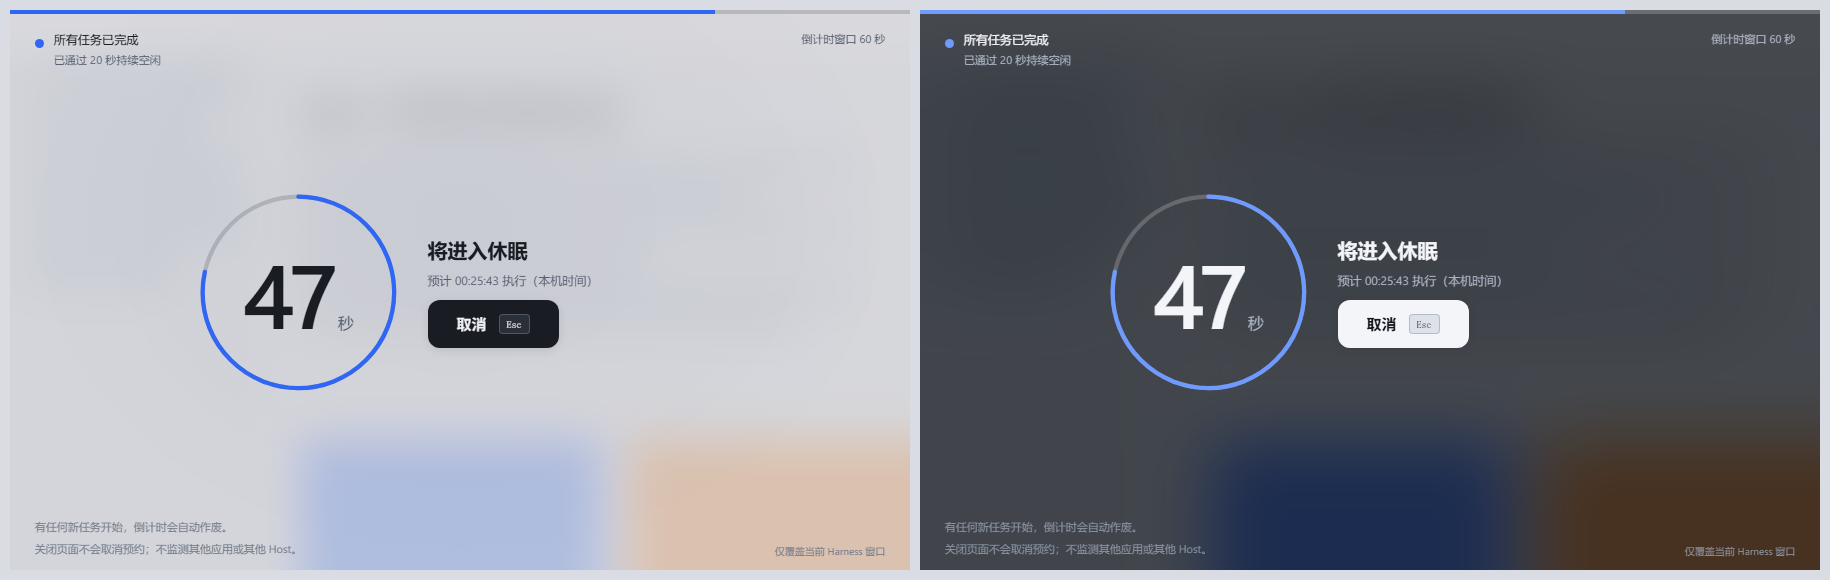
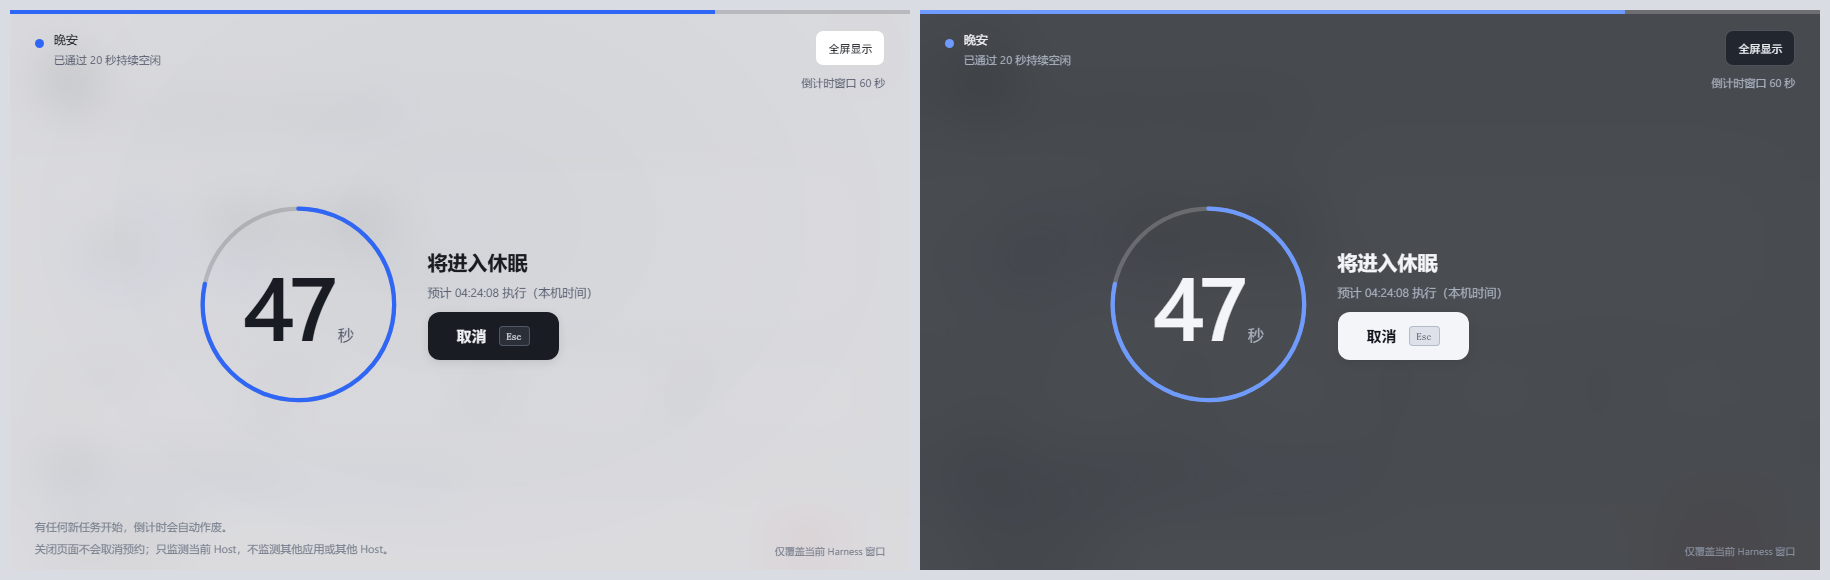
feat(ui): name the plugin Goodnight (#9)

diff --git a/client.js b/client.js
@@ -17,14 +17,14 @@ window.__ModuleLoader__.load({
 
     // ---------------------------------------------------------------- locale
     const zh = {
-      'rail.label': '预约关机',
-      'page.eyebrow': '空闲电源',
-      'page.title': '预约关机',
-      'page.subtitle': '等当前 DSH Host 的任务全部结束，再执行一次电源操作。',
+      'rail.label': '晚安',
+      'page.eyebrow': '自动关机',
+      'page.title': '晚安',
+      'page.subtitle': '等当前 DSH Host 的任务全部结束，替你把机器关机或休眠。',
       'page.refresh': '刷新状态',
       'page.retry': '重试',
-      'page.armShutdown': '预约关机',
-      'page.armHibernate': '预约休眠',
+      'page.armShutdown': '道晚安 · 关机',
+      'page.armHibernate': '道晚安 · 休眠',
       'page.cancel': '取消预约',
       'foot.plan': '预约后：空闲 %s 秒 → 倒计时 %s 秒 → %s',
       'page.saving': '正在提交…',
@@ -41,7 +41,7 @@ window.__ModuleLoader__.load({
       'status.quietSuffix': ' 秒后开始倒计时',
       'status.countingSuffix': ' 秒后执行',
       'status.scheduledAt': '预计 %s 执行',
-      'body.idle': '还没有预约。现在预约，会一直等到所有任务结束。',
+      'body.idle': '还没有预约。说一声晚安，它会等到所有任务结束再动手。',
       'body.waiting': '任务全部停下后开始倒计时。',
       'body.quiet': '任务已经停下，正在确认这段空闲。',
       'body.counting': '倒计时期间出现新任务会自动作废。',
@@ -118,7 +118,7 @@ window.__ModuleLoader__.load({
       'background.glassDesc': '半透明 + 模糊，隐约透出背后的窗口。',
       'background.blur': '高斯模糊',
       'background.blurDesc': '重度模糊 + 暗底，沉浸式深色提示。',
-      'countdown.title': '所有任务已完成',
+      'countdown.title': '晚安',
       'countdown.hibernate': '将进入休眠',
       'countdown.shutdown': '将关机',
       'countdown.suffix': '秒',
@@ -156,14 +156,14 @@ window.__ModuleLoader__.load({
       'error.unsupported-platform': '此插件只支持 Windows。',
     };
     const en = {
-      'rail.label': 'Scheduled power',
-      'page.eyebrow': 'IDLE POWER',
-      'page.title': 'Scheduled power',
-      'page.subtitle': 'Run one power action after every task in this DSH Host has finished.',
+      'rail.label': 'Goodnight',
+      'page.eyebrow': 'AUTO POWER',
+      'page.title': 'Goodnight',
+      'page.subtitle': 'Hibernate or shut down once every task in this DSH Host has finished.',
       'page.refresh': 'Refresh status',
       'page.retry': 'Retry',
-      'page.armShutdown': 'Schedule shutdown',
-      'page.armHibernate': 'Schedule hibernation',
+      'page.armShutdown': 'Goodnight · shut down',
+      'page.armHibernate': 'Goodnight · hibernate',
       'page.cancel': 'Cancel schedule',
       'foot.plan': 'When scheduled: %s s idle → %s s countdown → %s',
       'page.saving': 'Submitting…',
@@ -180,7 +180,7 @@ window.__ModuleLoader__.load({
       'status.quietSuffix': 's until the countdown',
       'status.countingSuffix': 's until it runs',
       'status.scheduledAt': 'Scheduled for %s',
-      'body.idle': 'Nothing is scheduled. Scheduling waits until every task has finished.',
+      'body.idle': 'Nothing is scheduled. Say goodnight and it waits for every task to finish.',
       'body.waiting': 'The countdown starts once every task has stopped.',
       'body.quiet': 'Every task stopped; this idle window is being confirmed.',
       'body.counting': 'Any new task voids this countdown automatically.',
@@ -257,7 +257,7 @@ window.__ModuleLoader__.load({
       'background.glassDesc': 'Translucent with a blur; faintly shows the window behind.',
       'background.blur': 'Gaussian blur',
       'background.blurDesc': 'Heavy blur and a dark scrim; an immersive dark warning.',
-      'countdown.title': 'All tasks finished',
+      'countdown.title': 'Goodnight',
       'countdown.hibernate': 'About to hibernate',
       'countdown.shutdown': 'About to power off',
       'countdown.suffix': 's',

diff --git a/README.md b/README.md
@@ -1,10 +1,10 @@
-# dsh-idle-power
+# Goodnight
 
 **English** · [简体中文](./README.zh-CN.md)
 
-Hibernate or shut down Windows once **every** task in your DeepSeek Harness Host has finished — with a 60-second countdown that fills the whole window and can be cancelled.
+Say goodnight to Windows once **every** task in your DeepSeek Harness Host has finished. A 60-second countdown fills the whole window, then the plugin hibernates or powers off. Cancel it any time before zero.
 
-Long agent runs usually end when you have walked away. This plugin lets you say *"shut the machine down when everything is actually done"*, then keeps its promise safe: it waits for all agents, subagents and background jobs in this Host, shows a full-window countdown, and **voids itself the moment new work appears**.
+Long agent runs usually end when you have walked away. This plugin lets you say *"put the machine to bed when everything is actually done"*, then keeps its promise safe: it waits for all agents, subagents and background jobs in this Host, shows a full-window countdown, and **voids itself the moment new work appears**.
 
 ![The countdown dialog](docs/countdown.png)
 
@@ -12,11 +12,11 @@ The background is switchable from the page: **solid** (default, above), **froste
 
 ![Frosted glass and gaussian blur](docs/backgrounds.png)
 
-The entry sits in the left rail, right under **Plugins** and **Automation tasks**:
+The entry sits in the left rail, right under **Plugins** and **Automation tasks**, and reads **Goodnight**:
 
 ![The scheduling page](docs/page.png)
 
-The page carries the power action, the countdown background, the live task counts, the flow and the notes. The action bar at the bottom names what the button will do (**Schedule shutdown** / **Schedule hibernation**), becomes **Cancel schedule** while a reservation is live, and the rail glyph grows a small dot.
+The page carries the power action, the countdown background, the live task counts, the flow and the notes. The action bar at the bottom names what the button will do (**Goodnight · shut down** / **Goodnight · hibernate**), becomes **Cancel schedule** while a reservation is live, and the rail glyph grows a small dot.
 
 ---
 
@@ -93,7 +93,7 @@ All three change **only the overlay itself**: the `blur` token overrides are sco
 
 ## Install
 
-The plugin is a regular DSH bundle: an npm package that ships a `cordis.patch.yml` and a `dsh.client` entry.
+The plugin is a regular DSH bundle: an npm package that ships a `cordis.patch.yml` and a `dsh.client` entry. The package keeps its original name, `dsh-idle-power`; **Goodnight** is the name it shows in the app.
 
 **Option A — Plugins page (recommended).** Open the Plugins page in Harness and install the bundle `dsh-idle-power` (or the spec `github:tzzs/dsh-idle-power`). It writes the dependency and adds the bundle to your profile for you.
 
@@ -112,13 +112,13 @@ Either way, **a restart or a plugin reload is required** — the Host half regis
 
 ## Use
 
-The entry sits in the left rail, right under **Plugins** and **Automation tasks**:
+The entry sits in the left rail, right under **Plugins** and **Automation tasks**, and reads **Goodnight**:
 
 ![The scheduling page](docs/page.png)
 
 From top to bottom the page shows the current state (not scheduled / waiting · N tasks running / counting down / executing / failed), the live load, the power action, the countdown background, the flow and the notes.
 
-- **Schedule / Cancel schedule** sits in the action bar at the bottom, next to a one-line plan ("20 s idle → 60 s countdown → shutdown") and named after the selected power action, so the commit button never leaves the choices behind.
+- **Goodnight · shut down** or **Goodnight · hibernate**, whichever the selected power action is, sits in the action bar at the bottom next to a one-line plan ("20 s idle → 60 s countdown → shutdown") that names the same action, so the commit button never leaves the choices behind. While a reservation is live the same spot becomes **Cancel schedule**.
 - **State on the rail** — while a reservation is live the power glyph grows a small dot; during the countdown that dot turns red and blinks. The dot survives the rail collapsing to icons.
 - **Countdown background** — three preview tiles that draw the countdown window each preset produces (solid / frosted glass / gaussian blur), applied immediately and persisted on the Host.
 - **A solid surface can be recoloured** — with the solid preset selected, a colour row offers the theme, six presets (four dark, two light) and the system colour picker; the ink switches between black and white by luminance.
@@ -185,10 +185,11 @@ Execution happens in the **Host**, not the browser. Closing the tab does not sto
 npm test
 ```
 
-Two dependency-free harnesses drive the real code with stand-ins, so the suite can run on any machine without powering anything off:
+Three dependency-free harnesses drive the real code with stand-ins, so the suite can run on any machine without powering anything off:
 
 - `test/host.test.mjs` — the state machine against fake agents, fake jobs and a subprocess that records `argv` instead of executing. Covers the busy predicate, a missing registry, quiet behaviour, countdown voiding, both command lines, cancellation, failure reporting, the mode and background routes, background config fallback for unknown values, and the races: mutations refused once execution is committed, a background change that must not disturb a pending arm, a cancel beating a slow arm upload, a stale lookup unable to overwrite a cancellation, and a suspend that overshoots the deadline re-arming instead of firing.
 - `test/client.test.cjs` — renders the real `client.js` components with a minimal React stand-in and asserts on the produced tree: the rail glyph and its pending dot, every page state (loading / offline / registry unavailable / executing / failed), the live load and per-kind task breakdown, mode and background selection with their disabled states, the flow and notes, the full-screen countdown's information hierarchy and progressbar semantics, the emitted `data-background` with fallback for unknown values, the progress ring's geometry and edge cases, multi-screen detection and mirror degradation, cancel-failure feedback, and `prefers-reduced-motion` coverage.
+- `test/locale.test.cjs` — renders the rail entry, the page, the countdown and the waiting screen with the real dictionaries, and fails on a label that resolves to nothing, a placeholder that only one language has, or a retired product name coming back.
 
 The host tests also cover a failed trust check, an unavailable connection service, mode changes during a reservation, and waking up during the executable lookup; the client tests cover keyboard access to every countdown control plus the fullscreen request and the two-step `Esc`.
 

diff --git a/README.zh-CN.md b/README.zh-CN.md
@@ -1,10 +1,10 @@
-# dsh-idle-power
+# 晚安
 
 [English](./README.md) · **简体中文**
 
-等 **DeepSeek Harness 当前 Host 里所有任务** 都跑完之后，自动休眠或关闭 Windows —— 先把整块屏幕变成一块 60 秒倒计时屏（窗口会自动进入全屏），随时可以取消。
+等 **DeepSeek Harness 当前 Host 里所有任务** 都跑完之后，替你把机器休眠或关掉。屏幕先变成一块 60 秒的倒计时，窗口会自动进入全屏，随时可以取消。
 
-长任务通常在你离开电脑之后才结束。这个插件让你提前说一句「全部跑完了就关机」，然后它用一套防误关的机制来兑现：
+长任务通常在你离开电脑之后才结束。这个插件让你提前说一句「跑完了就睡吧」，然后用一套防误关的机制来兑现：
 
 ![倒计时对话框](docs/countdown.png)
 
@@ -12,11 +12,11 @@
 
 ![毛玻璃与高斯模糊](docs/backgrounds.png)
 
-入口就在左侧导航里，紧挨「插件」和「自动化任务」：
+入口就在左侧导航里，紧挨「插件」和「自动化任务」，名字叫「晚安」：
 
 ![预约页](docs/page.png)
 
-页面里选电源操作和倒计时背景，实时看到在跑的任务数、执行流程和说明；底部的动作栏写着这次预约会怎么执行，按钮直接叫「预约关机 / 预约休眠」，已预约时同一个位置变成「取消预约」，左侧导航的电源图标上会多出一个小圆点。
+页面里选电源操作和倒计时背景，实时看到在跑的任务数、执行流程和说明；底部的动作栏写着这次预约会怎么执行，按钮直接叫「道晚安 · 关机 / 道晚安 · 休眠」，已预约时同一个位置变成「取消预约」，左侧导航的电源图标上会多出一个小圆点。
 
 ---
 
@@ -95,7 +95,7 @@
 
 ## 安装
 
-插件就是普通的 DSH bundle：一个 npm 包，带 `cordis.patch.yml` 和 `dsh.client` 声明。
+插件就是普通的 DSH bundle：一个 npm 包，带 `cordis.patch.yml` 和 `dsh.client` 声明。包名仍然是 `dsh-idle-power`，**晚安**是它在应用里显示的名字。
 
 **方式 A —— 用插件页（推荐）**：在 Harness 的「插件」页安装 bundle `dsh-idle-power`（或安装串 `github:tzzs/dsh-idle-power`），它会自动写入依赖并把 bundle 加进你的 profile。
 
@@ -120,7 +120,7 @@
 
 页面从上到下是：当前状态（未预约 / 等待中 · N 个任务在跑 / 倒计时中 / 执行中 / 失败）、实时负载、电源操作、倒计时背景、执行流程和说明。
 
-- **预约 / 取消预约**在页面底部的动作栏：旁边一行写清「空闲 20 秒 → 倒计时 60 秒 → 关机」，按钮名称跟着选中的电源操作走（预约关机 / 预约休眠），不用再滚回顶部找入口。
+- **道晚安 / 取消预约**在页面底部的动作栏：旁边一行写清「空闲 20 秒 → 倒计时 60 秒 → 关机」，按钮名称跟着选中的电源操作走（道晚安 · 关机 / 道晚安 · 休眠），不用再滚回顶部找入口。
 - **导航上的状态**：已预约时电源图标右上角多出一个小圆点，倒计时期间圆点变红并闪烁；导航折叠成图标轨道时圆点依然在。
 - **倒计时背景**：三张预览卡直接画出每档下倒计时窗口的样子（纯色 / 毛玻璃 / 高斯模糊），点一下即时生效并写入 Host。
 - **纯色可换颜色**：选「纯色」时下方出现颜色行——跟随主题、六个预设（四深两浅），或用系统取色器自定义；文字颜色按底色亮度自动选黑或白。
@@ -195,10 +195,11 @@
 npm test
 ```
 
-两个零依赖的测试夹具用替身驱动**真实代码**，所以在任何机器上都能跑完而不会真的关机：
+三个零依赖的测试夹具用替身驱动**真实代码**，所以在任何机器上都能跑完而不会真的关机：
 
 - `test/host.test.mjs` —— 用假 agents、假 jobs 和一个只记录 `argv` 不执行的 subprocess 驱动状态机。覆盖忙碌判定、注册表缺失、安静期行为、倒计时作废、两种命令行、取消、失败上报、模式与背景路由、背景配置的非法值回退，以及并发竞争：执行提交后的修改请求被拒绝、改背景不会让在途预约过期、取消压过正在上传的预约、过期查表结果不能覆盖取消、睡眠跨过倒计时终点后重新等待。
 - `test/client.test.cjs` —— 用最小 React 替身渲染真实的 `client.js` 组件并对产出的树做断言：导航入口图标与状态圆点、整页各状态（读取中 / 断线 / 注册表不可用 / 执行中 / 失败）、实时负载与分项任务数、模式与背景的选择和禁用态、执行流程与说明、整屏倒计时的信息分层与进度条语义、`data-background` 的输出与未知值回退、进度环的几何与边界、多屏检测与镜像窗口的降级、倒计时取消失败反馈、`prefers-reduced-motion` 覆盖。
+- `test/locale.test.cjs` —— 用真实词典渲染导航入口、页面、倒计时和等待屏，检查每条文案都解析得到、两种语言的 `%s` 数量一致，并且旧名字不会回流。
 
 Host 测试还覆盖信任检查失败、连接服务不可用、预约期间的模式修改，以及电源命令查找期间的休眠恢复；客户端测试覆盖倒计时里所有控件的键盘访问、整屏全屏请求与 `Esc` 的两段语义。
 
@@ -213,7 +214,7 @@ Host 测试还覆盖信任检查失败、连接服务不可用、预约期间的
 
 `docs/preview.html` 是零依赖的静态预览页：用真实的 `client.js` 组件和真实样式表在浏览器里渲染倒计时与整页，不会触发电源操作。查询串可切换状态，例如 `?s=6&mode=shutdown&multi=1` 查看紧急态与多屏控件，`?bg=glass` / `?bg=blur` 对比背景，`?page=1` 看整页，`?dark=1` 看暗色主题；`docs/backgrounds.html` 把毛玻璃与高斯模糊并排放在一页里。
 
-两套测试都不能替代肉眼看页面，也**不能证明 `shutdown` 真的把机器关掉**——那一步需要人按一次。
+三套测试都不能替代肉眼看页面，也**不能证明 `shutdown` 真的把机器关掉**——那一步需要人按一次。
 
 ## 许可
 
